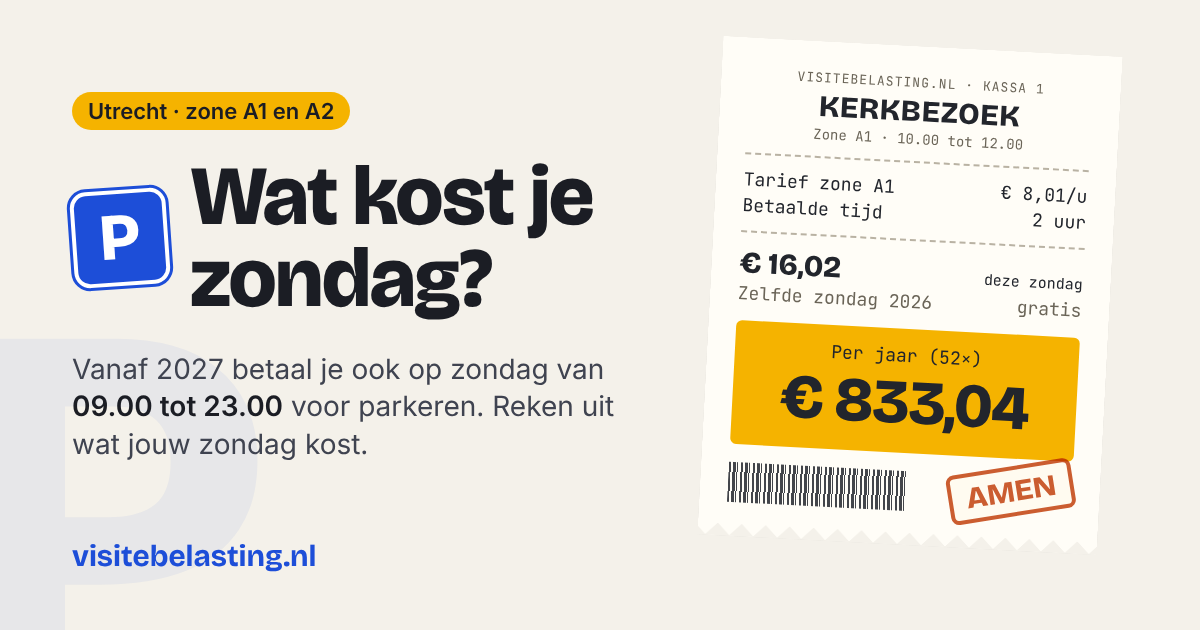
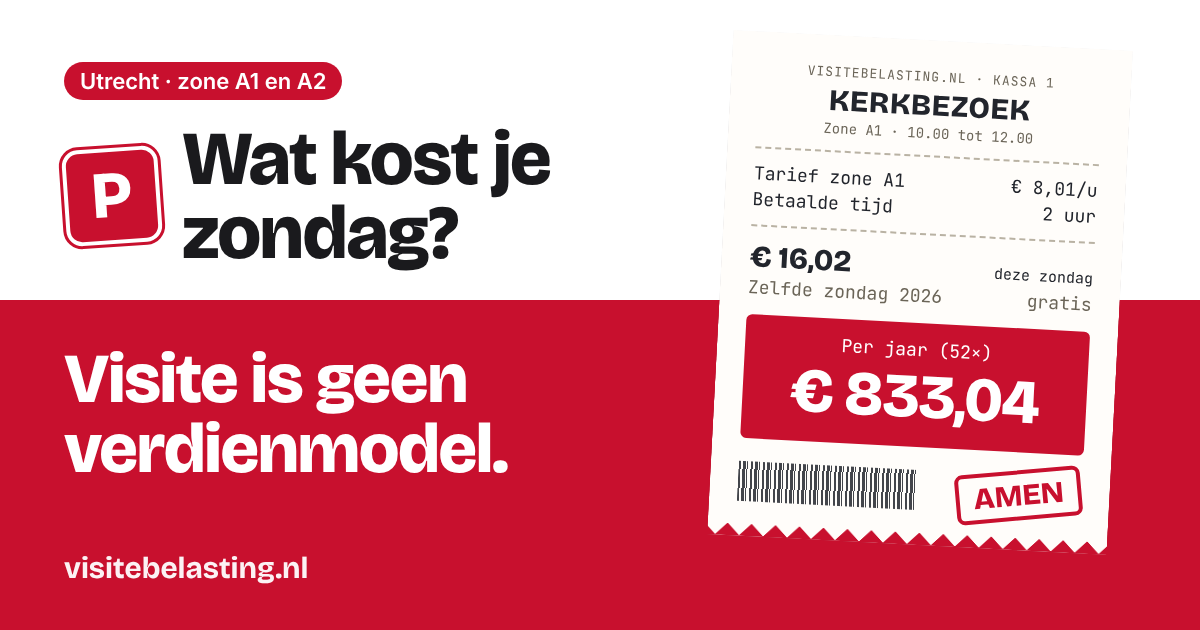
Comedy-teksten en statement, nieuw deelplaatje in Utrechtse kleuren
- Scherpere grappen per scenario, oordelen kloppen nu ook bij 1 auto of minder zondagen
- Grapregels op de bon: Gezelligheid, Zondagsrust, Peiling 2017
- Duidelijkere disclaimer: geen echte bon, niet van de gemeente
- og.png in rood en wit met 'Visite is geen verdienmodel.'
- Petitieknop en stempel breken netjes af op mobiel

Claude-Session: https://claude.ai/code/session_01WrcW83QkX5KoE53vksUPH3

diff --git a/index.html b/index.html
@@ -245,13 +245,13 @@ details.tarief .row2 { margin-top: 10px; }
 .receipt .yearly b { display: block; font-family: "Bricolage Grotesque", sans-serif; font-size: clamp(38px, 11vw, 48px); line-height: 1.05; letter-spacing: -0.02em; }
 .receipt .delta { margin-top: 10px; text-align: center; font-size: 13px; }
 .receipt .barcode {
-  height: 38px; flex: 0 0 52%;
+  height: 38px; flex: 0 0 46%;
   background: repeating-linear-gradient(90deg, #22252c 0 2px, transparent 2px 4px, #22252c 4px 7px, transparent 7px 8px, #22252c 8px 9px, transparent 9px 12px);
   opacity: .85;
 }
 .receipt .rfoot { display: flex; align-items: center; justify-content: space-between; gap: 10px; margin: 18px 0 16px; }
 .receipt .stamp {
-  margin-right: 4px; transform: rotate(-8deg); background: var(--paper); white-space: nowrap;
+  margin-right: 4px; transform: rotate(-8deg); background: var(--paper); text-align: center; max-width: 46%; line-height: 1.05 !important;
   border: 3px solid #c8102e; color: #c8102e; border-radius: 6px; padding: 6px 10px;
   font: 800 16px/1 "Bricolage Grotesque", sans-serif; text-transform: uppercase;
   opacity: .85; mix-blend-mode: multiply; pointer-events: none;
@@ -305,7 +305,7 @@ details.tarief .row2 { margin-top: 10px; }
 .cta p { margin: 0; font-size: 15px; flex: 1 1 220px; }
 .cta p b { display: block; font-family: "Bricolage Grotesque", sans-serif; font-size: 20px; line-height: 1.2; margin-bottom: 2px; }
 .cta a {
-  flex: none; text-decoration: none; font-weight: 700;
+  flex: 0 1 auto; text-decoration: none; font-weight: 700; text-align: center;
   background: var(--accent); color: var(--accent-ink);
   padding: 12px 18px; border-radius: 10px;
 }
@@ -355,6 +355,7 @@ footer li + li { margin-top: 10px; }
   .tabs { gap: 8px; }
   .tab { padding: 10px 8px; align-items: center; text-align: center; }
   .tab small { display: none; }
+  .cta a { flex: 1 1 100%; }
   .tab b { font-size: 16px; }
   .psign { width: 52px; height: 52px; font-size: 36px; }
   header { padding: 20px 0 0; }
@@ -387,7 +388,7 @@ footer li + li { margin-top: 10px; }
   </header>
   <section class="flag" aria-label="Statement">
     <p class="slogan" id="slogan">Visite is geen verdienmodel.</p>
-    <p class="lede">Vanaf 3 januari 2027 betaal je in Utrecht ook op zondag van 09.00 tot 23.00 uur voor parkeren in de binnenstad en de wijken eromheen. Kies je zondag en schrik van je bonnetje. De grap is van ons, de tarieven zijn echt.</p>
+    <p class="lede">Vanaf 3 januari 2027 betaal je in Utrecht ook op zondag voor parkeren in de binnenstad en de wijken eromheen. Van 09.00 tot 23.00 uur. Ook als oma komt. Kies je zondag en bekijk je bonnetje. De grap is van ons, de tarieven zijn echt.</p>
   </section>
 
   <p class="shared" id="shared" hidden>Je kijkt naar het bonnetje van iemand anders. <button type="button" id="ownBtn">Reken je eigen zondag uit</button></p>
@@ -466,12 +467,12 @@ footer li + li { margin-top: 10px; }
       <p id="srSum" class="sr-only" aria-live="polite"></p>
       <div class="verdict" id="verdict"></div>
       <div class="actions">
-        <button class="btn share" id="shareBtn" type="button">Stuur je bonnetje door</button>
+        <button class="btn share" id="shareBtn" type="button">Stuur je bonnetje naar de familie-app</button>
         <span class="toast" id="toast" role="status"></span>
       </div>
       <div class="cta">
         <p><b id="ctaHead">Vind je dit te gek?</b><span id="ctaBody">Bewoners vragen de gemeenteraad om het parkeerbeleid voor bezoek op zondag te heroverwegen.</span></p>
-        <a href="https://www.petities.com/houd_utrecht_bereikbaar_en_leefbaar_voor_iedereen" target="_blank" rel="noopener">Teken de petitie →</a>
+        <a href="https://www.petities.com/houd_utrecht_bereikbaar_en_leefbaar_voor_iedereen" target="_blank" rel="noopener">Teken de petitie (gratis, ook op zondag) →</a>
       </div>
     </div>
   </main>
@@ -480,7 +481,7 @@ footer li + li { margin-top: 10px; }
     <h2>Wat verandert er?</h2>
     <div class="infogrid">
       <div class="card tablecard">
-        <h3>Zondag oud en nieuw</h3>
+        <h3>Zondag nu en straks</h3>
         <table class="flip">
           <thead><tr><th scope="col">Zone</th><th scope="col">Zondag 2026</th><th scope="col">Zondag vanaf 2027</th><th scope="col">Extra betaalde uren</th><th scope="col">Bezoekerskorting</th></tr></thead>
           <tbody>
@@ -490,19 +491,19 @@ footer li + li { margin-top: 10px; }
         </table>
       </div>
       <div class="card">
-        <h3>Wie heeft er bezwaar?</h3>
+        <h3>Wie is er tegen?</h3>
         <ul>
-          <li>Eind 2017 hield de gemeente zelf een <a href="https://utrecht.bestuurlijkeinformatie.nl/Document/View/6cdf4239-6a76-451a-87da-1e31fb8f7ae7" target="_blank" rel="noopener">peiling in acht parkeerrayons rond de binnenstad</a>. In alle zeven rayons met een geldige uitslag stemde een meerderheid tegen betaald parkeren op zondag. In het achtste deden te weinig mensen mee. De zondag bleef toen gratis.</li>
-          <li>Een <a href="https://www.petities.com/houd_utrecht_bereikbaar_en_leefbaar_voor_iedereen" target="_blank" rel="noopener">petitie van een bewoner uit Nieuw Engeland</a> had op 26 november 2026 ruim 1.700 handtekeningen.</li>
+          <li>Eind 2017 vroeg de gemeente het zelf, met een <a href="https://utrecht.bestuurlijkeinformatie.nl/Document/View/6cdf4239-6a76-451a-87da-1e31fb8f7ae7" target="_blank" rel="noopener">peiling in acht parkeerrayons rond de binnenstad</a>. In alle zeven rayons met een geldige uitslag was een meerderheid tegen betaald parkeren op zondag. In het achtste deden te weinig mensen mee. De zondag bleef toen gratis.</li>
+          <li>Een bewoner uit Nieuw Engeland begon een <a href="https://www.petities.com/houd_utrecht_bereikbaar_en_leefbaar_voor_iedereen" target="_blank" rel="noopener">petitie</a>. Op 26 november 2026 stonden er ruim 1.700 handtekeningen onder.</li>
           <li>Veertien kerken in de binnenstad vroegen de burgemeester per brief om een oplossing.</li>
-          <li>Amendementen voor een vrije zondagochtend en voor een uitzondering voor religieuze instellingen haalden het op 12 november niet.</li>
+          <li>Op 12 november 2026 haalden twee amendementen het niet: één voor een vrije zondagochtend en één om een uitzondering voor religieuze instellingen te onderzoeken.</li>
         </ul>
       </div>
       <div class="card">
         <h3>Goed om te weten</h3>
         <ul>
-          <li>Voor mantelzorg, thuiszorg en kraamzorg gaat de korting in de hele stad naar 99%, als je de regeling gebruikt.</li>
-          <li>Naar de kerk: je bent geen bezoek van een bewoner, dus je krijgt geen bezoekerskorting.</li>
+          <li>Voor mantelzorg, thuiszorg en kraamzorg is de korting in de hele stad 99%, als je de regeling gebruikt. Zorg is dus bijna gratis. Gezelligheid niet.</li>
+          <li>Ga je naar de kerk? Dan ben je geen bezoek van een bewoner. Je krijgt dus geen bezoekerskorting.</li>
           <li>Na 23.00 uur en voor 09.00 uur parkeer je gratis. Een nachtelijk feest wordt dus vanzelf goedkoper.</li>
         </ul>
       </div>
@@ -510,7 +511,7 @@ footer li + li { margin-top: 10px; }
   </section>
 
   <footer>
-    <p><b>Dit is een ludieke rekentool, geen officiële berekening.</b> De tool is niet van de gemeente Utrecht. Bedragen zijn indicatief: per auto, alleen binnen de betaaltijden, zonder grens op kortingsuren en zonder transactiekosten van parkeerapps. Prijzen van taart, chips en bloemen zijn ronde middenprijzen uit supermarkten in november 2026. Ze verschillen per winkel en per week.</p>
+    <p><b>Dit is een ludieke rekentool, geen officiële berekening.</b> Deze site is niet van de gemeente Utrecht en spreekt niet namens de gemeente. Het bonnetje is geen echte bon: je hoeft niets te betalen. Bedragen zijn een schatting: per auto, alleen binnen de betaaltijden, zonder grens op kortingsuren en zonder kosten van parkeerapps. Prijzen van taart, chips en bloemen zijn ronde middenprijzen uit supermarkten in november 2026. Ze verschillen per winkel en per week.</p>
     <p><button class="themebtn" id="themeBtn" type="button">Licht / donker</button></p>
     <p>Bronnen:</p>
     <ul>
@@ -541,13 +542,13 @@ footer li + li { margin-top: 10px; }
   var SCENARIOS = {
     feest: {
       title: "Je verjaardag",
-      sub: "Iedereen komt op zondag, want dan heeft iedereen tijd. Tot nu toe.",
-      carsLabel: "Gasten met auto",
-      carsHint: "Tel auto's, niet mensen. Tante en oom in één auto is één auto.",
+      sub: "Op zondag kan iedereen. Vanaf 2027 betaalt ook iedereen.",
+      carsLabel: "Auto's van je gasten",
+      carsHint: "Tel auto's, geen mensen. Tante en oom in één auto is één auto. Carpoolen is het nieuwe cadeau.",
       cars: 8, carsMax: 40, start: 14, dur: 4, durMax: 12, freq: 3, freqMax: 12,
-      freqLabel: "Verjaardagen in huis per jaar", durLabel: "Hoe lang duurt het feest",
+      freqLabel: "Verjaardagen in huis per jaar", durLabel: "Tot de laatste gast opstaat",
       discAllowed: true, disc: true, zone: "A2",
-      receiptTitle: "VERJAARDAG", stamp: "Gefeliciteerd",
+      receiptTitle: "VERJAARDAG", stamp: "Lang zal je betalen",
       items: [
         ["grote slagroomtaarten (12 personen)", 18, "grote slagroomtaart (12 personen)"],
         ["zakken chips", 2, "zak chips"]
@@ -555,11 +556,11 @@ footer li + li { margin-top: 10px; }
     },
     kerk: {
       title: "Naar de kerk",
-      sub: "Dienst, koffie na afloop en nog even bijpraten bij de uitgang.",
+      sub: "Dienst, koffie na afloop en nog even bijpraten bij de uitgang. Buiten loopt de meter mee.",
       carsLabel: "Auto's van kerkgangers",
       carsHint: "Zet hem op 1 voor je eigen auto, of schuif door voor de hele gemeente.",
       cars: 1, carsMax: 150, start: 10, dur: 2, durMax: 5, freq: 52, freqMax: 52,
-      freqLabel: "Zondagen per jaar", durLabel: "Dienst plus koffie",
+      freqLabel: "Zondagen per jaar", durLabel: "Dienst, koffie en napraten",
       discAllowed: false, disc: false, zone: "A1",
       receiptTitle: "KERKBEZOEK", stamp: "Amen",
       items: [
@@ -568,15 +569,15 @@ footer li + li { margin-top: 10px; }
     },
     oma: {
       title: "Oma op bezoek",
-      sub: "Ze komt uit Bilthoven en neemt altijd koekjes mee.",
-      carsLabel: "Auto's",
-      carsHint: "Komt opa ook, in zijn eigen auto? Dan zijn het er twee.",
+      sub: "Ze komt uit Bilthoven en neemt altijd koekjes mee. Vanaf 2027 ook de parkeerapp.",
+      carsLabel: "Auto's voor de deur",
+      carsHint: "Komt opa ook, in zijn eigen auto? Dan zijn het er twee. Eén bezoek, twee keer betalen.",
       cars: 1, carsMax: 6, start: 12, dur: 5, durMax: 11, freq: 12, freqMax: 52,
       freqLabel: "Bezoekjes per jaar", durLabel: "Hoe lang blijft oma",
       discAllowed: true, disc: true, zone: "A2",
       receiptTitle: "ZONDAGSE VISITE", stamp: "Oma betaalt",
       items: [
-        ["boeketten uit de supermarkt", 20, "boeket uit de supermarkt"]
+        ["bossen bloemen voor oma", 20, "bos bloemen voor oma"]
       ]
     }
   };
@@ -670,19 +671,20 @@ footer li + li { margin-top: 10px; }
     var s = state.s, n = r.net, y = r.year;
     if (n === 0) {
       return r.hNew === 0
-        ? "Gratis! Je zit helemaal buiten de betaaltijden. Slim gepland, of gewoon heel vroeg op."
-        : "Met een tarief van € 0 is parkeren gratis. Was het maar zo.";
+        ? "Gratis. Je zit helemaal buiten de betaaltijden. Voor 09.00 en na 23.00 uur is gezelligheid nog gratis."
+        : "Tarief € 0. Zo was de zondag in A2 tot nu toe. Dat was fijn.";
     }
     if (s === "feest") {
       if (n < 15) return "Valt mee. Je gasten merken het pas als ze de app openen.";
-      if (n < 60) return "Je visite betaalt samen " + eur0.format(n) + " om jou te feliciteren. Hopelijk is het cadeau dat waard.";
+      if (n < 60) return "Je visite betaalt samen " + eur0.format(n) + " om jou te feliciteren. Dat is een cadeau, alleen niet voor jou.";
       if (n < 150) return "Dit feest kost meer aan parkeergeld dan aan taart. Overweeg een bakfietsservice.";
       return "Gefeliciteerd! De gemeente viert vandaag gezellig met je mee: " + eur0.format(n) + ".";
     }
     if (s === "kerk") {
       if (y < 200) return "Een kleine offerande aan de parkeerautomaat.";
-      if (y < 1000) return "Elke zondag trouw naar de kerk kost je straks " + eur0.format(y) + " per jaar. Amen.";
-      return "Samen betaalt de kerkgemeente " + eur0.format(y) + " per jaar om te mogen zingen. Dat is een flinke collecte, alleen niet voor de kerk.";
+      if (y < 1000) return "Trouw naar de kerk kost je straks " + eur0.format(y) + " per jaar. Aan de automaat, niet aan de collecte.";
+      if (state.cars > 1) return "Samen betaalt de kerkgemeente " + eur0.format(y) + " per jaar om te mogen zingen. Een flinke collecte, alleen niet voor de kerk.";
+      return "Jij alleen betaalt " + eur0.format(y) + " per jaar. Dat is geen collecte meer, dat is een abonnement.";
     }
     if (s === "oma") {
       if (y < 50) return "Oma vindt het prima. Ze mopperde toch al over de parkeerapp.";
@@ -694,9 +696,9 @@ footer li + li { margin-top: 10px; }
 
   function contextText() {
     switch (state.s) {
-      case "kerk": return "Veertien kerken in de binnenstad vroegen de burgemeester om een oplossing. Een amendement om een uitzondering voor religieuze instellingen te onderzoeken werd op 12 november 2026 verworpen.";
-      case "feest": return "Bewoners in A1 en A2 krijgen 50% bezoekerskorting. In de wijken verder van het centrum (zone BC) is dat 95%.";
-      case "oma": return "Met de mantelzorgregeling is de korting 99%. Maar komt oma gewoon gezellig koffie drinken, dan is het 50%.";
+      case "kerk": return "Veertien kerken in de binnenstad vroegen de burgemeester om een oplossing. Een amendement om een uitzondering voor religieuze instellingen te onderzoeken, haalde het op 12 november 2026 niet.";
+      case "feest": return "Woon je zelf in A1 of A2? Dan krijgt je visite 50% korting. Verder van het centrum, in zone BC, is dat 95%. Zelfde taart, ander tarief.";
+      case "oma": return "Komt oma als mantelzorger, dan is de korting 99%. Komt ze voor de gezelligheid, dan is het 50%. Zorg krijgt korting, gezelligheid betaalt.";
     }
     return "";
   }
@@ -737,8 +739,12 @@ footer li + li { margin-top: 10px; }
     if (r.yearOld > 0 && extra > 0.005) {
       rc += '<div class="delta">Dat is ' + eur.format(extra) + (state.freq > 1 ? ' per jaar' : '') + ' meer dan in 2026.</div>';
     }
+    rc += '<hr>';
+    rc += line("Gezelligheid", "€ 0,00");
+    rc += line("Zondagsrust", "uitverkocht");
+    rc += line("Peiling 2017, rayons tegen", "7 van 7");
     rc += '<div class="rfoot" aria-hidden="true"><div class="barcode"></div><div class="stamp">' + (r.net === 0 ? 'Gratis' : sc.stamp) + '</div></div>';
-    rc += '<div class="thanks">Bedankt voor uw bezoek. Tot volgende zondag.</div>';
+    rc += '<div class="thanks">Bedankt voor uw bezoek. Kom gauw weer. Vanaf 09.00 uur.</div>';
     $("receipt").innerHTML = rc;
 
     var total = r.year;
@@ -755,11 +761,11 @@ footer li + li { margin-top: 10px; }
     }
     $("verdict").innerHTML = vd;
     $("ctaHead").textContent = total > 0
-      ? "Liever " + eur0.format(total) + " aan iets leukers uitgeven?"
-      : "Gratis, maar je buren betalen wel.";
-    $("ctaBody").textContent = contextText() + " Op 26 november 2026 stonden er al ruim 1.700 handtekeningen onder de petitie.";
+      ? "Liever " + eur0.format(total) + ({ feest: " aan taart?", kerk: " in de collectezak?", oma: " aan bloemen voor oma?" }[state.s] || " aan iets leukers?")
+      : "Gratis, deze keer. Tussen 09.00 en 23.00 uur betaal je wel.";
+    $("ctaBody").textContent = contextText() + " Ruim 1.700 mensen tekenden de petitie al (stand 26 november 2026). Jij ook?";
     var shown = state.freq > 1 ? r.year : r.net;
-    $("shareBtn").textContent = "Stuur je bonnetje door (" + eur0.format(shown) + (state.freq > 1 ? " per jaar" : "") + ")";
+    $("shareBtn").textContent = "Stuur je bonnetje naar de familie-app (" + eur0.format(shown) + (state.freq > 1 ? " per jaar" : "") + ")";
     $("sbAmt").textContent = eur0.format(shown);
     $("sbSub").textContent = (state.freq > 1 ? "per jaar" : "deze zondag") + " · bonnetje ↓";
   }
@@ -798,11 +804,11 @@ footer li + li { margin-top: 10px; }
     var y = eur0.format(state.freq > 1 ? r.year : r.net);
     var per = state.freq > 1 ? " per jaar" : "";
     switch (state.s) {
-      case "feest": return "Mijn verjaardag kost mijn visite vanaf 2027 " + eur0.format(r.net) + " aan parkeergeld in Utrecht. Wat kost jouw zondag?";
-      case "kerk": return "Elke zondag naar de kerk kost me vanaf 2027 " + y + per + " aan parkeergeld in Utrecht. Amen. Wat kost jouw zondag?";
-      case "oma": return "Oma betaalt vanaf 2027 " + y + per + " aan parkeergeld om mij in Utrecht te zien. Wat kost jouw zondag?";
+      case "feest": return "Mijn visite betaalt vanaf 2027 " + eur0.format(r.net) + " parkeergeld om mij in Utrecht te feliciteren. Wat kost jouw verjaardag?";
+      case "kerk": return "Naar de kerk kost me vanaf 2027 " + y + per + " aan parkeergeld in Utrecht. Amen. Teken je mee?";
+      case "oma": return "Mijn oma betaalt vanaf 2027 " + y + per + " parkeergeld om mij in Utrecht te zien. Wat kost die van jou?";
     }
-    return "Wat kost jouw zondag?";
+    return "Wat kost jouw zondag in Utrecht? Reken het uit en teken de petitie.";
   }
 
   // Begintijden 08.00 tot 22.30
